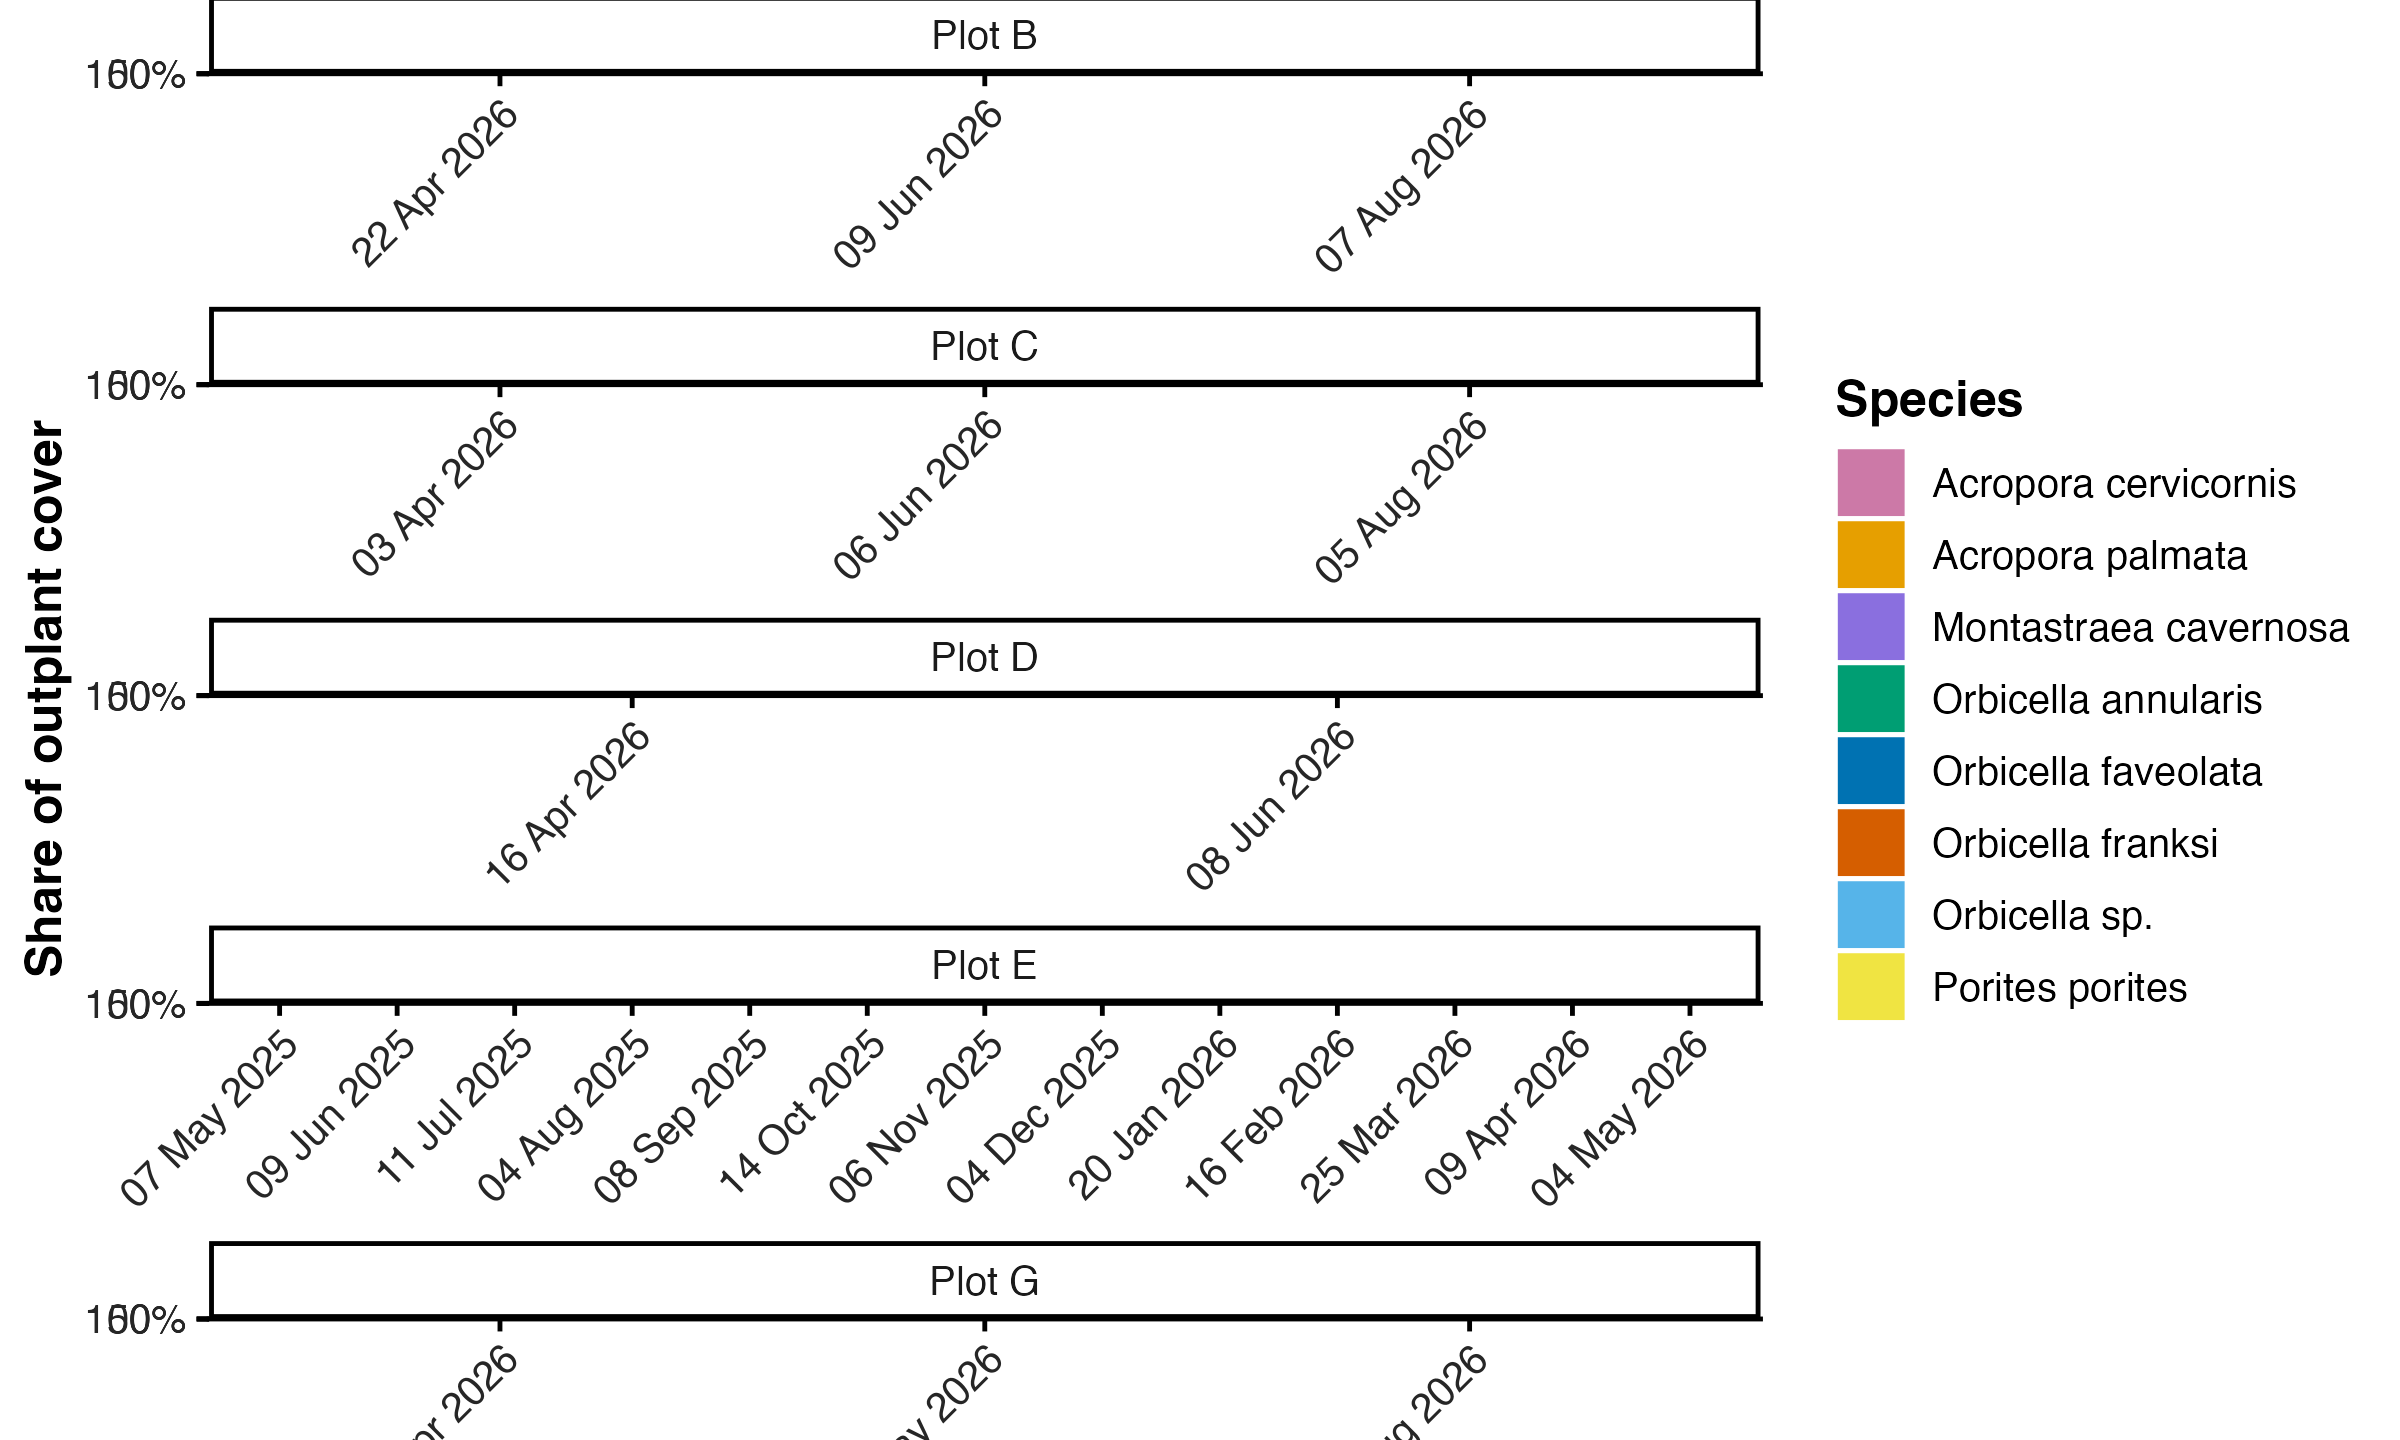
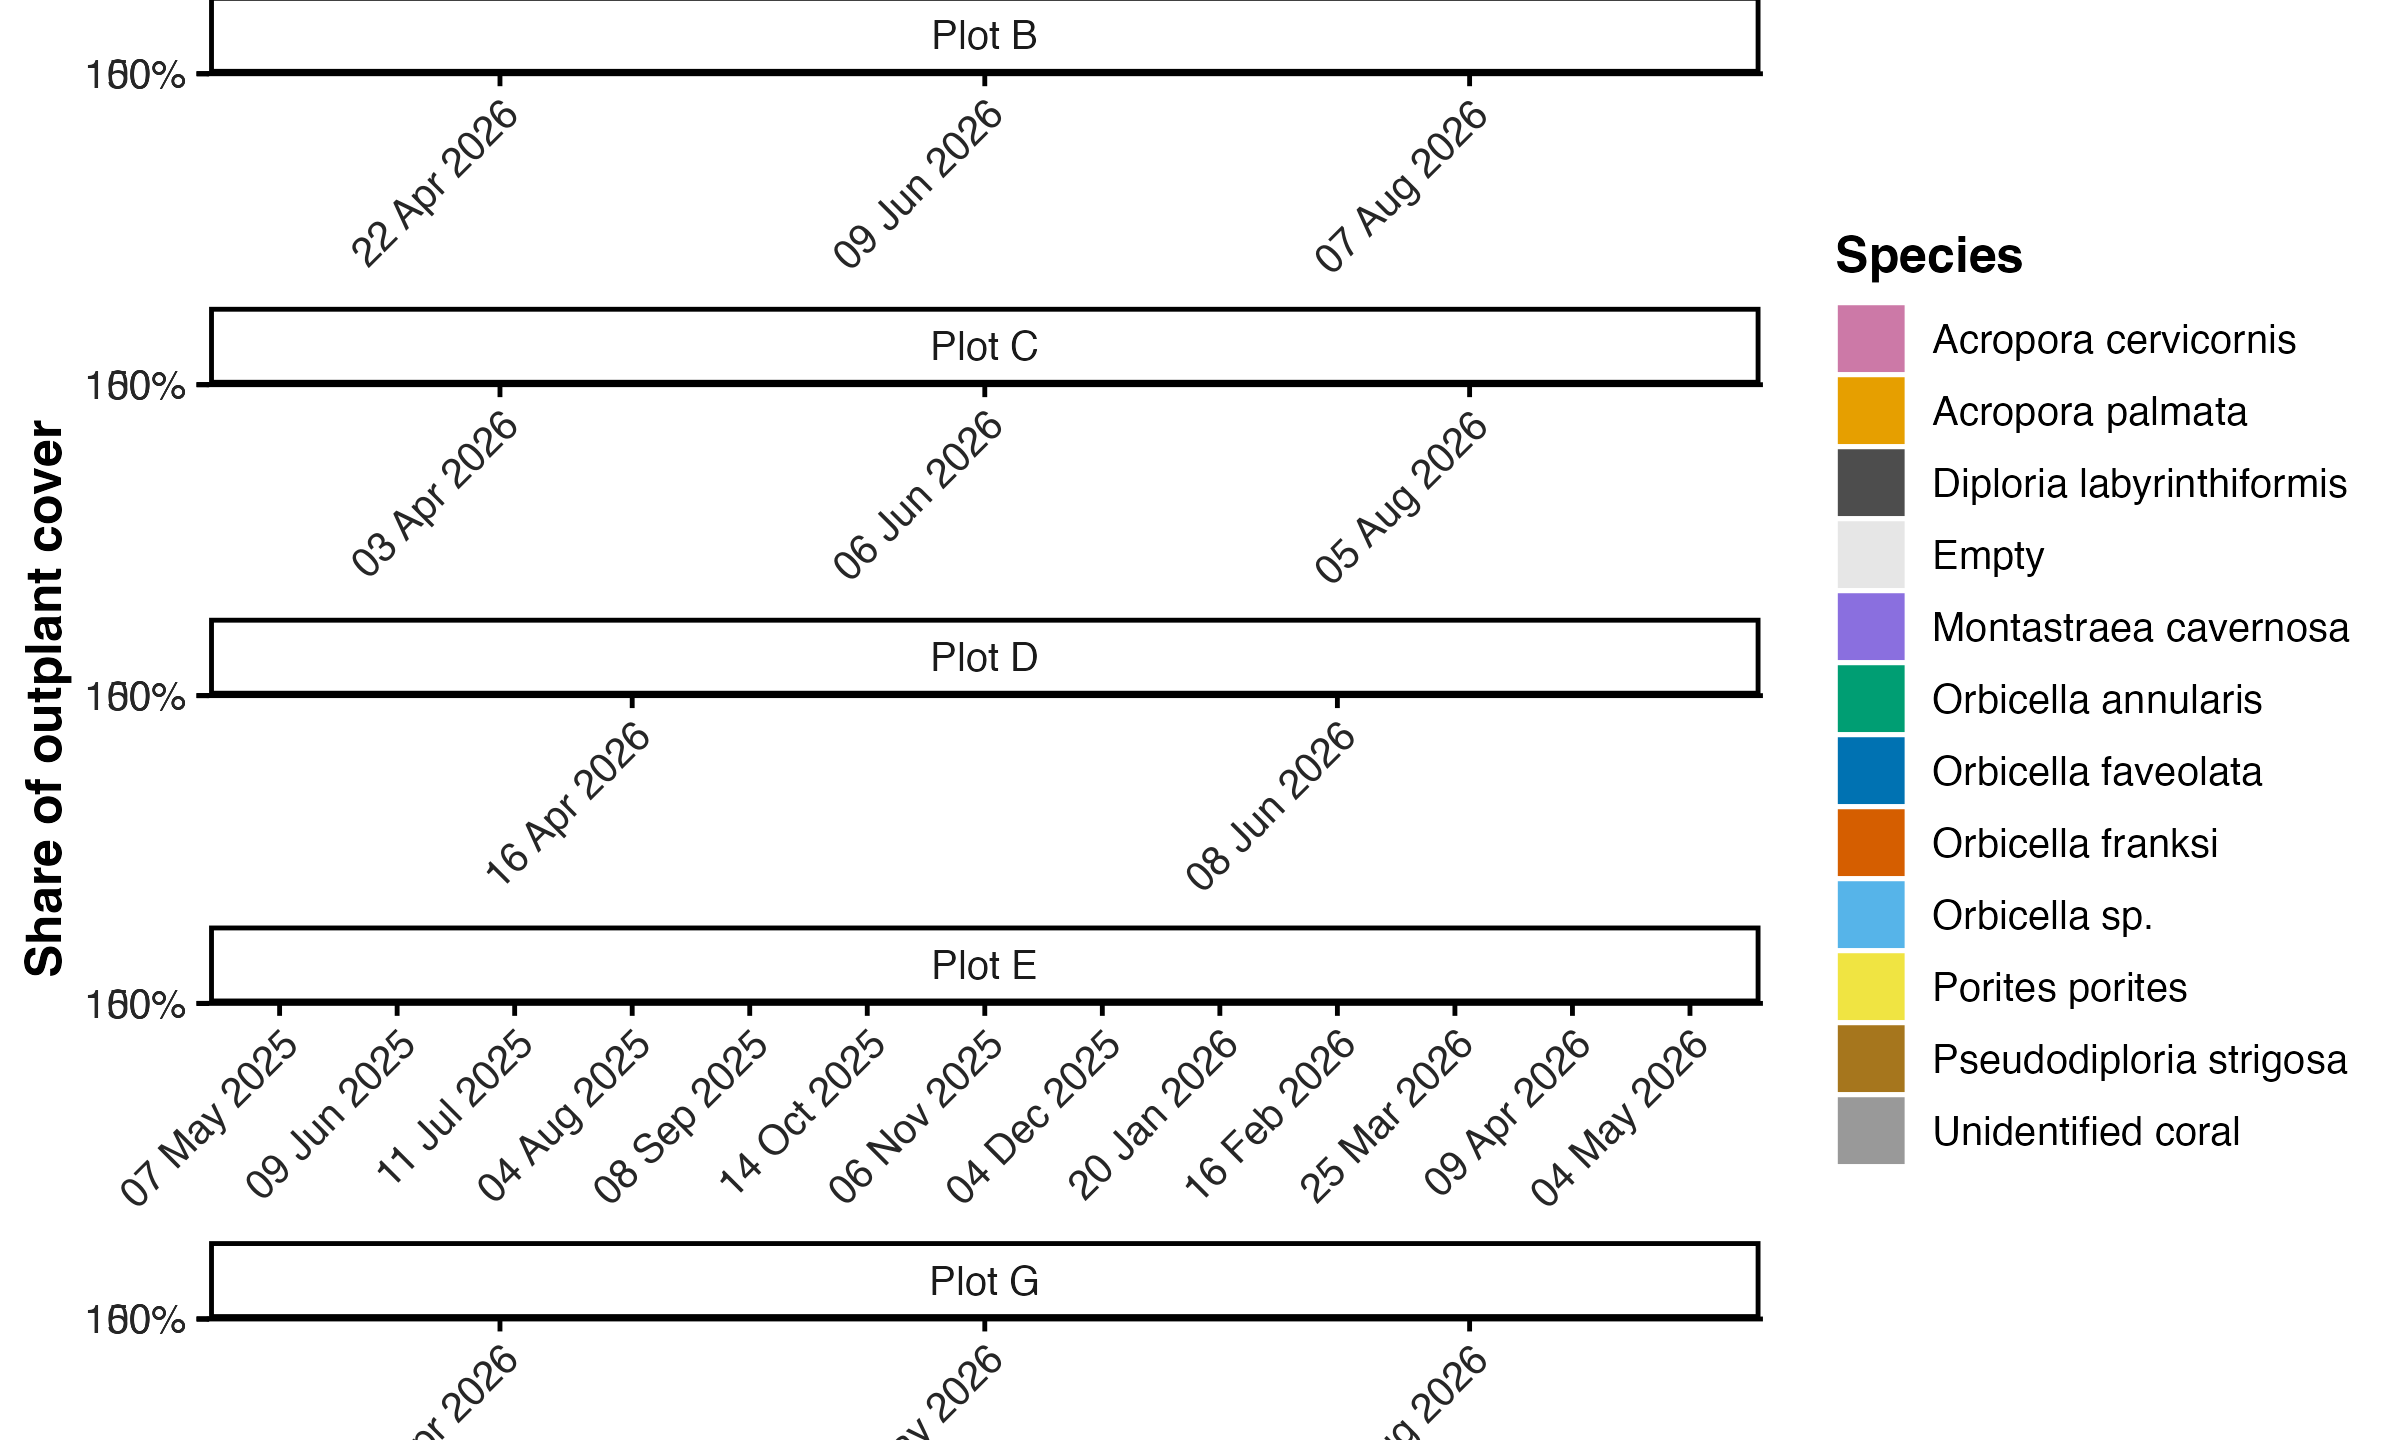
Complete outplant species color palette

Changed region(s): [[0.75, 0.1562, 0.9688, 0.4062], [0.75, 0.6875, 0.9688, 0.8125]]

diff --git a/logs/CHANGELOG.md b/logs/CHANGELOG.md
@@ -39,3 +39,8 @@
 - Reworked the overview species prevalence and cover charts to use exact survey dates, plot-specific date axes, and uncluttered 0%, 50%, and 100% ticks.
 - Increased the rendered height of both overview species figures so all seven plot panels and their labels are readable.
 - Rebuilt the workflow outputs and website; the project pre-push check passed.
+
+## 2026-09-23 — Complete species color palette
+
+- Added fixed colors for `Diploria labyrinthiformis`, `Pseudodiploria strigosa`, `Unidentified coral`, and `Empty` while retaining all existing species colors.
+- Rebuilt the figures and website so every observed coral-label category has an explicit color.
